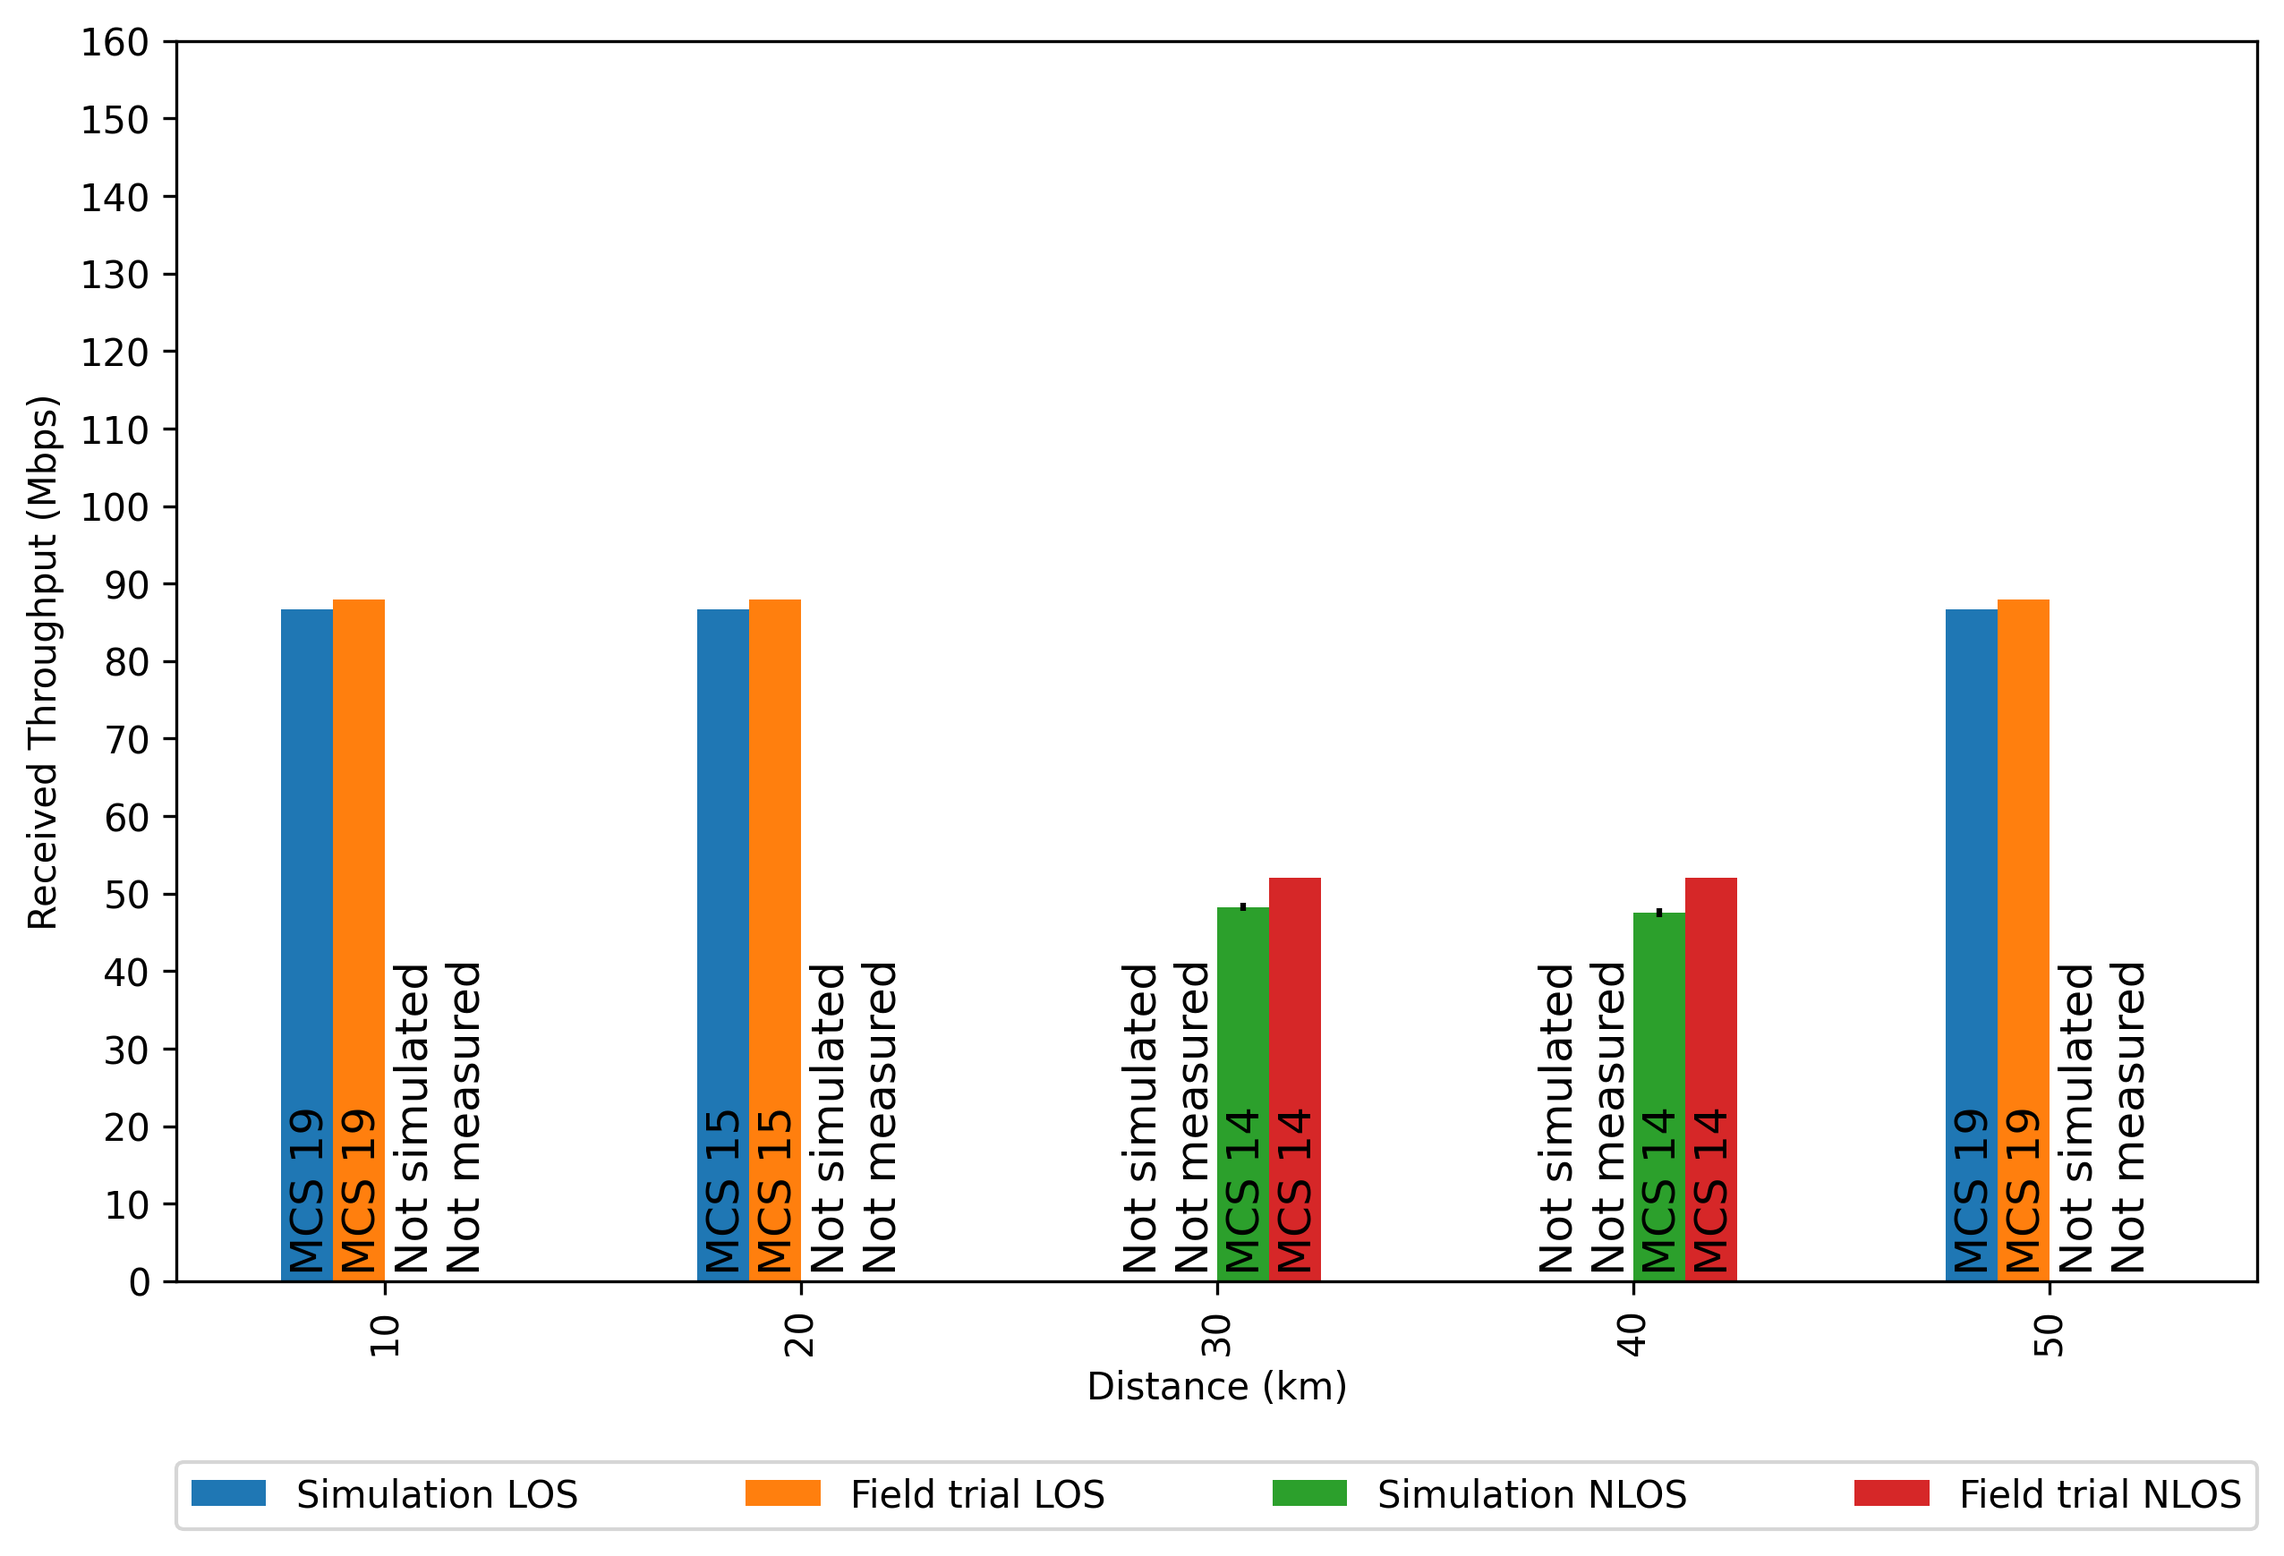
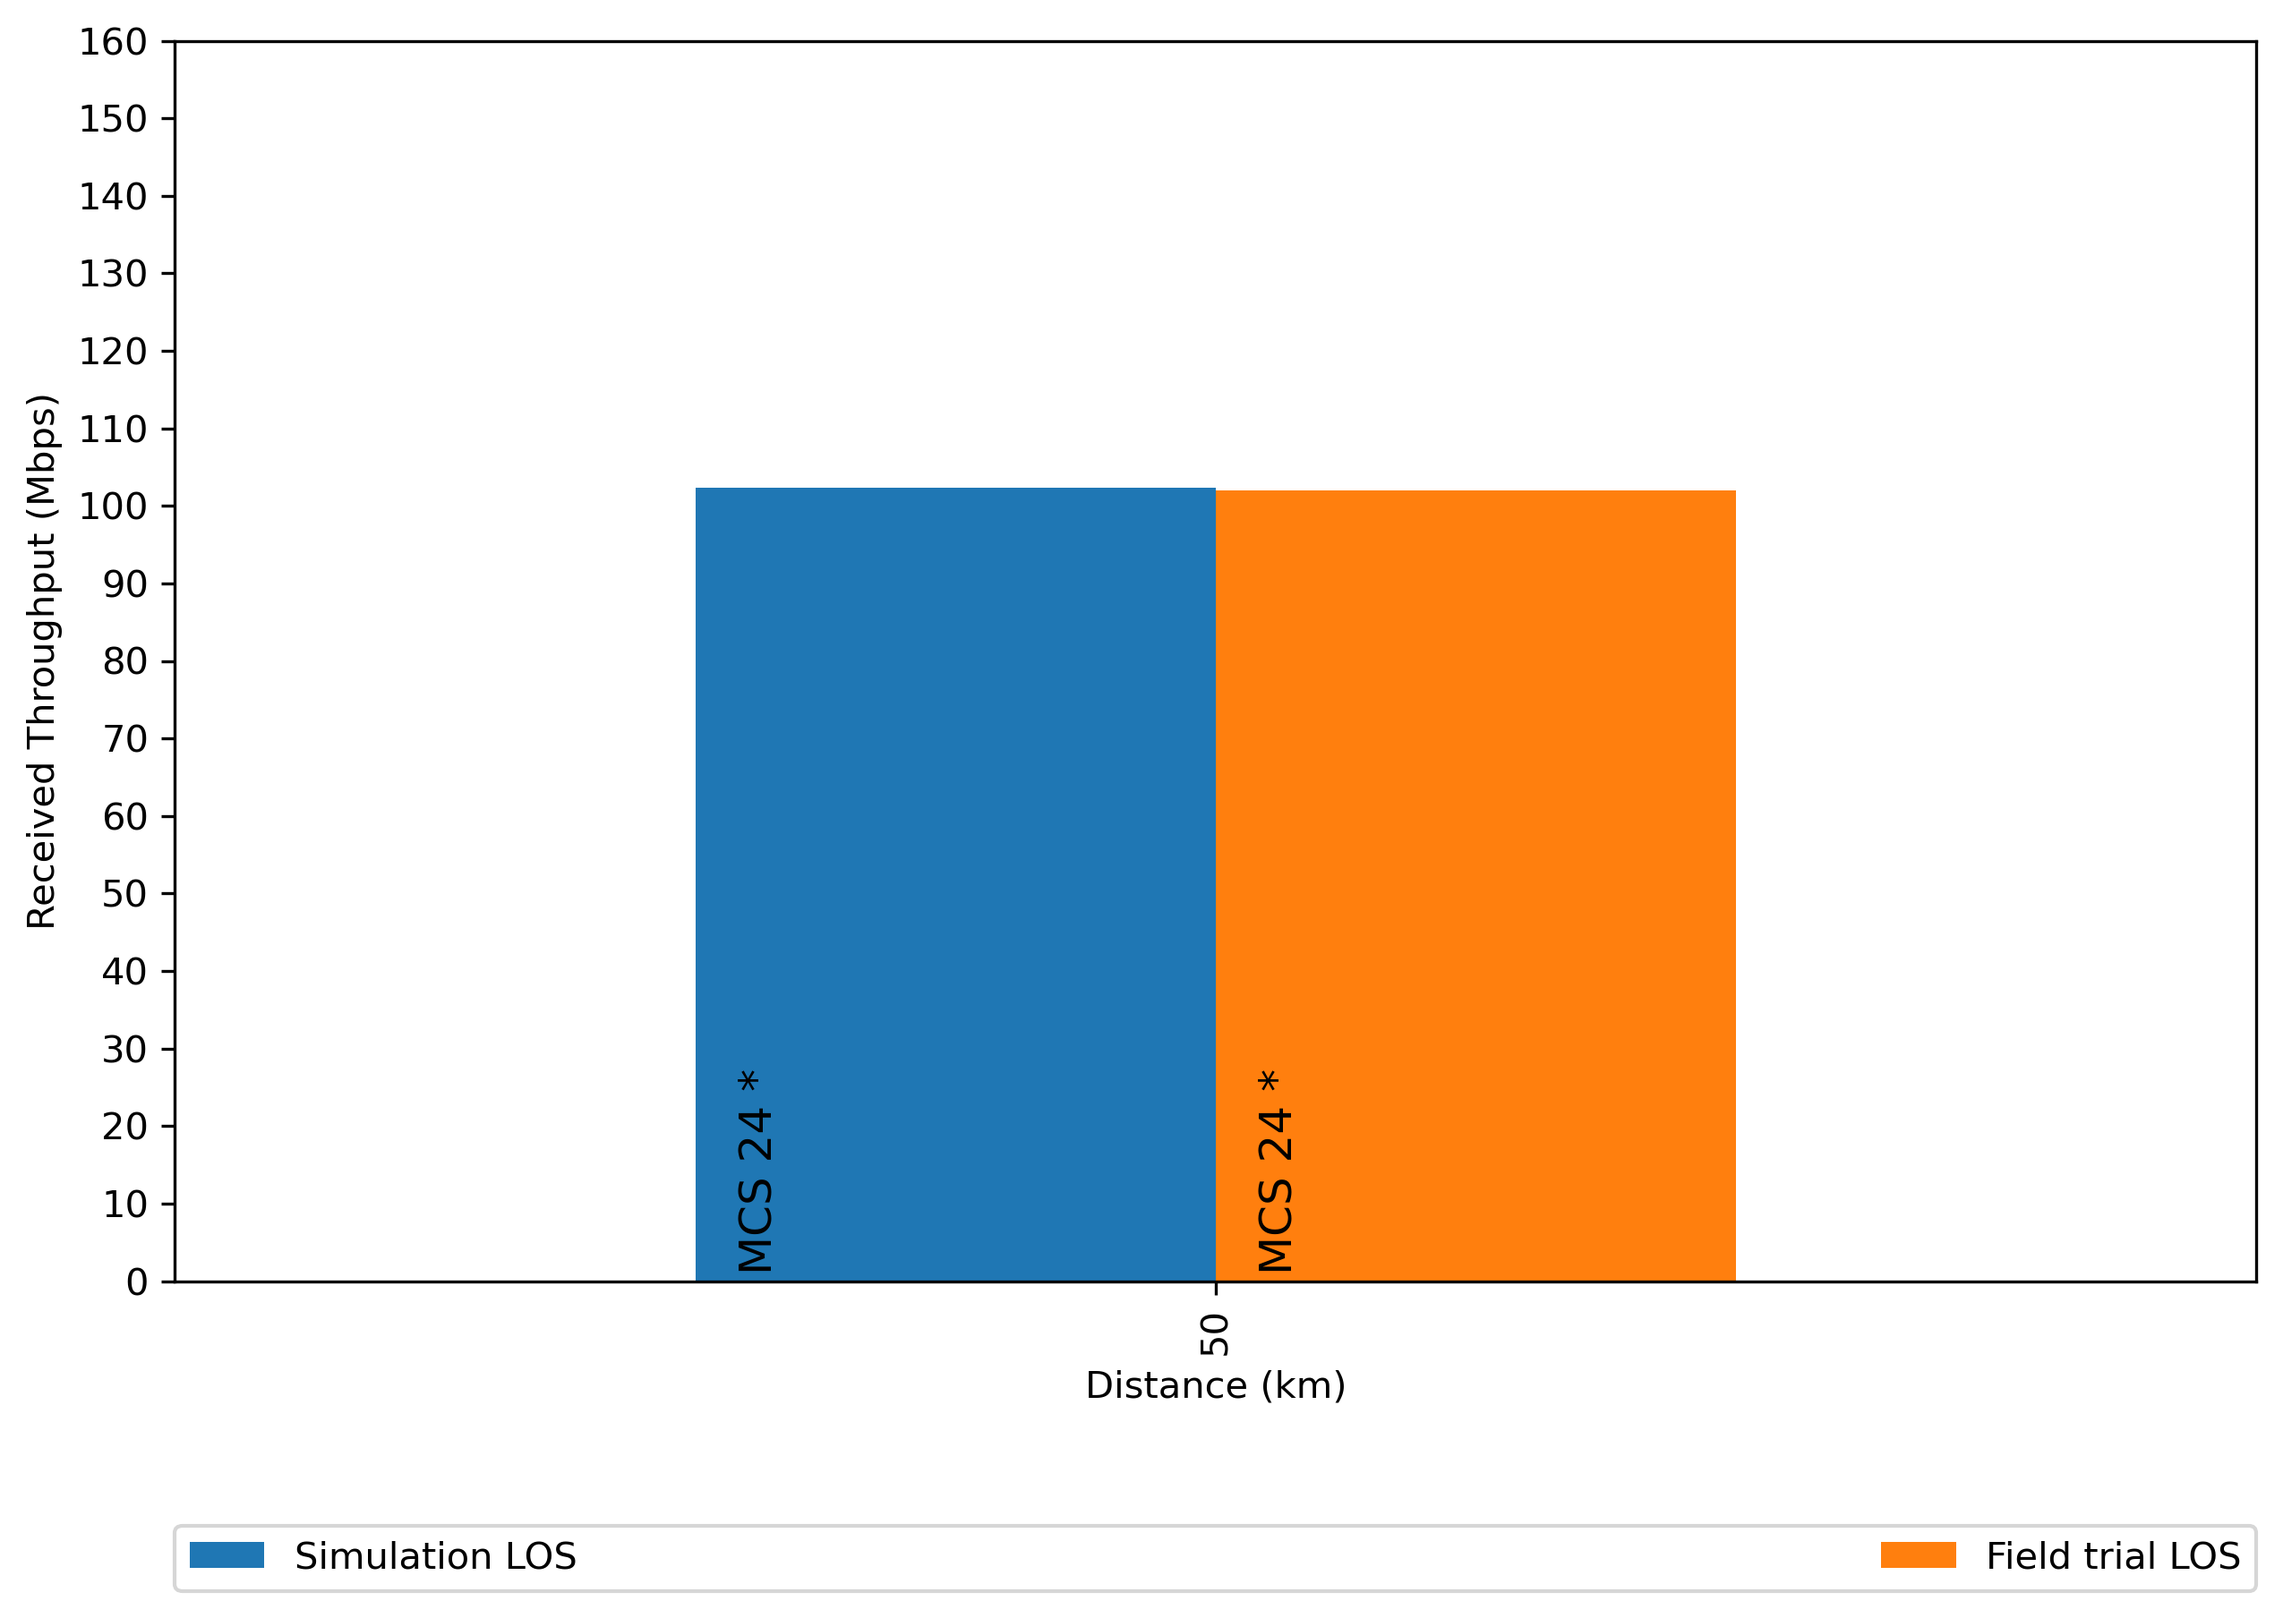
Run simulation for latest field trial result

diff --git a/scratch/5grange_validation/bench_validation.py b/scratch/5grange_validation/bench_validation.py
@@ -94,7 +94,7 @@ def exec_sim_parameters(*arg_tuple):
 
         except Exception as e:
             return False, None, None
-    mcs = None  # extract_n_plot_mcs([distance], base_dir=folder, cmd=True)
+    mcs = None # extract_n_plot_mcs([distance], base_dir=folder, cmd=True)
     snr = None  # extract_n_plot_snr([distance], base_dir=folder, cmd=True)
     return True, mcs, snr
 
@@ -180,7 +180,7 @@ def extract_perf(distanceFolder, distance):
     return extract_throughput(distanceFolder), extract_corruption(distanceFolder, distance)
 
 
-# tuples of distance
+# Results for 713MHz carrier with 6MHz channel bandwidth
 fieldTrialResults = {"LOS": {
                                 10:{"d_km": 10,
                                  "thr_Mbps": 22,
@@ -261,17 +261,30 @@ fieldTrialResults = {"LOS": {
                              }
                      }
 
+# Results for 525MHz carrier with 24MHz channel bandwidth
+fieldTrialResults = {"LOS": {
+                            50: {"d_km": 50.5,
+                                 "thr_Mbps": 102,
+                                 "ber": 0,
+                                 # QAM256 2/3 isn't available in latest MCS scheme, so we approximate by adding gain and reducing throughput
+                                 "mcs_trial": "QAM256 2/3",
+                                 "nearest_mcs_to_simulate": 24,  # QAM256 5/6
+                                 "gain_adj_add": 3,  # link gain, can be added to eNB or UE
+                                 "throughtput_adj_mult": 0.8
+                                },
+                        }
+                    }
 
 if __name__ == "__main__":
     import numpy
     import pandas
     mp.freeze_support()
-    frequencyBands = (freqBands.MHz713, )  # (freqBands.MHz850, freqBands.MHz713, freqBands.MHz525, freqBands.MHz240)
+    frequencyBands = (freqBands.MHz525, )  # (freqBands.MHz850, freqBands.MHz713, freqBands.MHz525, freqBands.MHz240)
     numAntennas = (2, )  # 1, 4
     mimoModes = (mimoModes.TxDiversity, )  # mimoModes.SISO, mimoModes.SpatialMultiplexing)
-    channel_models = ("CDL_D", "CDL_A",)  # "RANGE5G",
-    forcedMaxMcs = (True, )  # False,)
-    distances = [10, 20, 30, 40, 50, ]  # 1, 5, 10, 20, 35, 50, 100
+    channel_models = ("CDL_D", )#"CDL_A",)  # "RANGE5G",
+    forcedMaxMcs = (True, )  # False, True,)
+    distances = [ 50, ]  # 10, 20, 30, 40, 1, 5, 10, 20, 35, 50, 100
     batches = 40
 
     thread_parameters = []
@@ -363,7 +376,7 @@ if __name__ == "__main__":
                                 result = p.starmap(func=extract_perf, iterable=pool_args)
 
                                 i = 0
-                                label = "%s-%dAnt-%s" %(channel_model, numAntenna, mimoMode.name)
+                                label = "%s-%dAnt-%s" % (channel_model, numAntenna, mimoMode.name)
                                 batch_results["batch"][batch]["forceMaxMcs"][forceMaxMcs]["frequencyBand"][frequencyBand]["THR"][label] = {}
                                 batch_results["batch"][batch]["forceMaxMcs"][forceMaxMcs]["frequencyBand"][frequencyBand]["TBLER"][label] = {}
                                 for folder, distance in pool_args:
@@ -448,7 +461,7 @@ if __name__ == "__main__":
                 received_throughput_per_d_error = {}
                 for distance in distances:
                     if distance in THR[lab].keys():
-                        received_throughput_per_d[distance] = statistics.mean(THR[lab][distance])  # trial samples are for 6MHz wide channels instead of 24MHz wide like ours
+                        received_throughput_per_d[distance] = statistics.mean(THR[lab][distance])*0.8  # trial samples are for 6MHz wide channels instead of 24MHz wide like ours
                         received_throughput_per_d_error[distance] = statistics.stdev(THR[lab][distance])*z_value/((batches)**0.5)
                     else:
                         received_throughput_per_d[distance] = 0
@@ -488,7 +501,7 @@ if __name__ == "__main__":
 
                     # Get trial parameters and forward to simulation
                     sample = fieldTrialResults["LOS" if channel_model == "CDL_D" else "NLOS"][distance]
-                    received_throughput_per_d[distance] = sample["thr_Mbps"]*4
+                    received_throughput_per_d[distance] = sample["thr_Mbps"]
                     corrupted_freq_per_d[distance] = sample["ber"]*100  # convert to tbler? how?
 
                 lab = "Field trial %s" % channel_model.replace("CDL_D", "LOS").replace("CDL_A", "NLOS")
@@ -539,10 +552,11 @@ if __name__ == "__main__":
                 axis5[-1].text(i.get_x()+0.02, 1, label, fontsize=12, color='black', rotation=90)
 
                 j += 1
-            #axis5[-1].text(2.0, -15.00, "*: MCS values were taken from field trial samples with same distance but different LOS conditions",
+            #axis5[-1].text(0.0, 0.00, "*: MCS values were taken from field trial samples with same distance but different LOS conditions",
             #               ha="center", fontsize=7, bbox={"facecolor": "white", "alpha": 0.5, "pad": 5})
 
             # Set axis labels for corruption rate plot
+            axis5[-1].set_yticks(list(range(0, 101, 10)))
             axis5[-1].set_xlabel("Distance (km)")
             axis5[-1].set_ylabel("Transport Block Error Rate - TBLER (%)")
             axis5[-1].set_ylim([0,100])
@@ -592,7 +606,7 @@ if __name__ == "__main__":
                 axis6[-1].text(i.get_x()+0.02, 2, label, fontsize=12, color='black', rotation=90)
                 j += 1
             axis6[-1].set_yticks(list(range(0, 170, 10)))
-            #axis6[-1].text(2.0, -23.50, "*: MCS values were taken from field trial samples with same distance but different LOS conditions",
+            #axis6[-1].text(0.0, -1.50, "*: MCS values were taken from field trial samples with same distance but different LOS conditions",
             #               ha="center", fontsize=7, bbox={"facecolor": "white", "alpha": 0.5, "pad": 5})
             # Set axis labels for corruption rate plot
             axis6[-1].set_xlabel("Distance (km)")

diff --git a/scratch/5grange_validation/5grange_cdl_test.cc b/scratch/5grange_validation/5grange_cdl_test.cc
@@ -187,13 +187,13 @@ main (int argc, char *argv[])
   bool forceMaxMcsSched   = false;
   uint16_t maxMcsSched    = 26;
   double kval             = 0;     //D3.1 indicates it should be 29.38 but it seems to be overly pessimistic
-  double enbTxPower       = 38;//dbm for earlier field trials and 40.8 for later  //40.8dBm, 53dBm was defined in D3.1 but isn't necessary according to field trials
+  double enbTxPower       = 40.8;//38;//dbm for earlier field trials and 40.8 for later  //40.8dBm, 53dBm was defined in D3.1 but isn't necessary according to field trials
   // field trials used 2/3 code rate instead of 5/6,
   //   we compensate for that reducing the throughput on the validation script
   //   and increasing the antenna gains below (1.5dBi each)
-  double enbGain          = 9.0;//+1.5;   //dBi
+  double enbGain          = 10.5;//9.0;//+1.5;   //dBi
   double ueTxPower        = 23.0;  //dBm
-  double ueGain           = 9.0;//+1.5;   //dBi, 9dBi is for CPEs
+  double ueGain           = 10.5;//9.0;//+1.5;   //dBi, 9dBi is for CPEs
   uint32_t numAntennas    = 1;     // only affects CDL
   uint16_t  mimoMode      = 0;     // 0-SISO, 1-TxDiversity, 2-spatial multiplexing open
   uint32_t dlEarfcn       = 50000; //5G: 50000 for ~297MHz, LTE: 2400 for band 5 (~850MHz)
